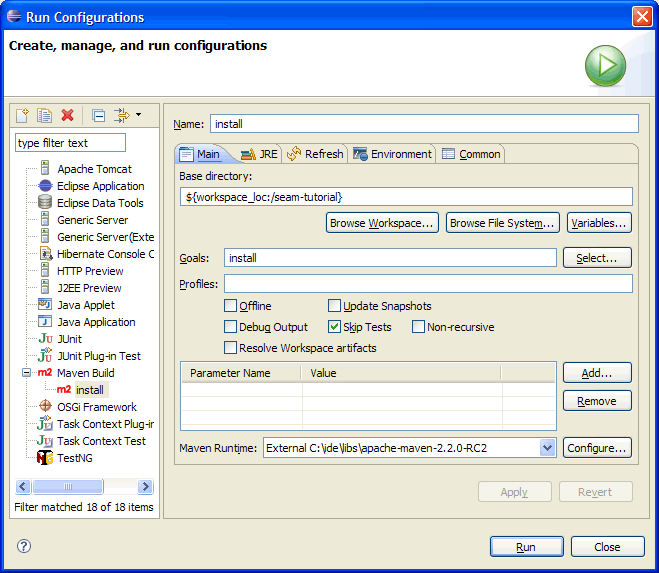
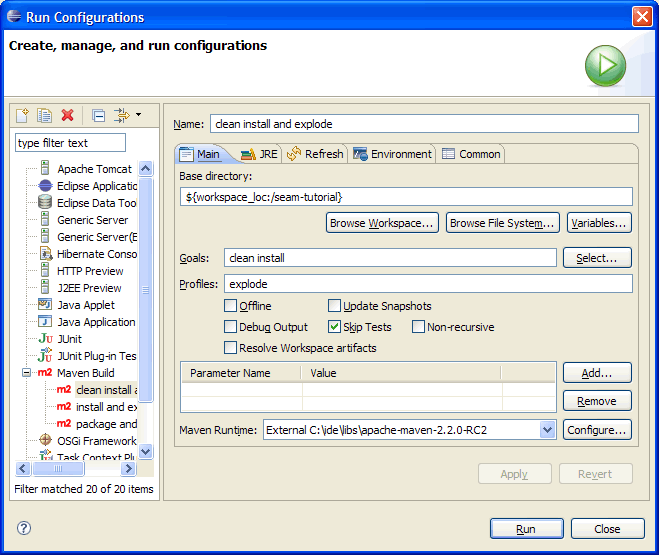
updated doc/tutorial/02-eclipse.html

Changed region(s): [[0.0, 0.0, 1.0, 0.9802]]

diff --git a/doc/tutorial/02-eclipse.html b/doc/tutorial/02-eclipse.html
@@ -62,6 +62,9 @@
 </ul>
 
 <h2>Use the <code>seam-refimpl</code> Project as a Template for Your Own Project</h2>
+<p>To import a mavenized project to Eclipse (i.e. a project that is already installed on your computer), 
+  follow these steps:
+</p>
 <ol>
   <li><a href="01-gettingstarted.html#use-as-template">Follow steps here</a> to set up the project.</li>
   <li><a href="01-gettingstarted.html#switch-to-development-mode">Switch to developmentmode</a></li>
@@ -79,7 +82,9 @@
     mvn eclipse:configure-workspace<br/>
     mvn eclipse:m2eclipse</code><br/> 
     The last Maven command will generate the Eclipse <code>.project</code> and <code>.classpath</code> 
-    files that now makes the project a valid Eclipse project.
+    files that now makes the project a valid Eclipse project.<br/>
+    <strong>Note:</strong> Do not use the <code>eclipse:eclipse</code> command, it does not work 
+    properly when m2eclipse is installed.
   </li>
   <li>Open Eclipse and select to the newly created workspace folder.
     <img src="img/eclipse-workspace-launcher.png" style="width:500px; display:block;" />
@@ -98,32 +103,34 @@
     Modify Run Configurations:<br/>
     According to 
     <a href="http://www-02.imixs.com:8081/roller/ralphsjavablog/entry/eclipse_maven_install_from_runas">
-    this blog</a> there is a problem with running <code>mvn install</code> from eclipse. Read the 
-    blog and follow screenshots here to fix the problem.
+    this blog</a> there is a problem with running <code>mvn install</code> from eclipse. 
+    <a href="http://www-02.imixs.com:8081/roller/ralphsjavablog/entry/eclipse_maven_install_from_runas">
+    Read the blog</a> and follow screenshots here to fix the problem.
     <img src="img/eclipse-run-configurations.png" style="width:640px; display:block;" />
     <img src="img/eclipse-run-configurations-02.png" style="width:640px; display:block;" />
     <img src="img/eclipse-run-configurations-03.png" style="width:640px; display:block;" />
+    <img src="img/eclipse-run-configurations-04.png" style="width:640px; display:block;" />
+    Run the <code>clean install and explode</code> Run Configurations to deploy the project to the 
+    server the first time. In <code>profiles.xml</code>, remember to point the server to the correct 
+    deploy folder.
   </li>
-</ol>
-
-<h2>Import Maven project to Eclipse</h2>
-<p>To import a mavenized project to Eclipse (i.e. a project that is already installed on your computer), 
-  follow these steps:</p>
-<ol>
-  <li>Create a workspace in eclipse (do not use same folder as <code>${SEAM_REFIMPL}</code>)</li>
+  <li>
+    Install JBoss Tools if you haven't done so already.
+  </li>
   <li>Create a WTP server reference (that references the installed JBoss application server), the
     <a href="http://seamframework.org/Documentation">JBoss Seam documentation</a> explains how to 
     Create a WTP server reference
   </li>
-  <li>Exit eclipse, navigate to the project folder using a command shell and execute Maven command: <code>mvn clean install</code></li>
-  <li>Execute Maven command: <code>mvn eclipse:clean</code></li>
-  <li>Execute Maven command: <code>mvn eclipse:m2eclipse</code> from the command shell<br/>
-       <strong>Note:</strong> <code>mvn eclipse:eclipse</code> does not work!
-  </li>
-  <li>Open Eclipse and import the <code>seam-refimpl</code> project into your Eclipse workspace
-    <img src="img/eclipse-import.png" style="width:250px; display:block;" /><br/>
-    <img src="img/eclipse-import-maven-01.png" style="width:400px; display:block;" /><br/>
-    <img src="img/eclipse-import-maven-02.png" style="width:500px; display:block;" /><br/>
+</ol>
+
+
+
+
+
+<div style="display:none;">
+<h2>Import Maven project to Eclipse</h2>
+<ol>
+  <li>
     If the SubClipse plugin is  configured corretly and the project was previously checked out from 
     <strong>svn</strong> (using tortoise or a similar tool), then the project should already be under 
     revision control inside Eclipse. If the project does not apear to be under revision control then 
@@ -191,6 +198,7 @@
   <a href="http://www-02.imixs.com:8081/roller/ralphsjavablog/entry/eclipse_maven_install_from_runas">
   http://www-02.imixs.com:8081/roller/ralphsjavablog/entry/eclipse_maven_install_from_runas</a>
 </p>
+</div>
 
 </div> <!-- #page -->
 </div> <!-- #page-wrapper -->
